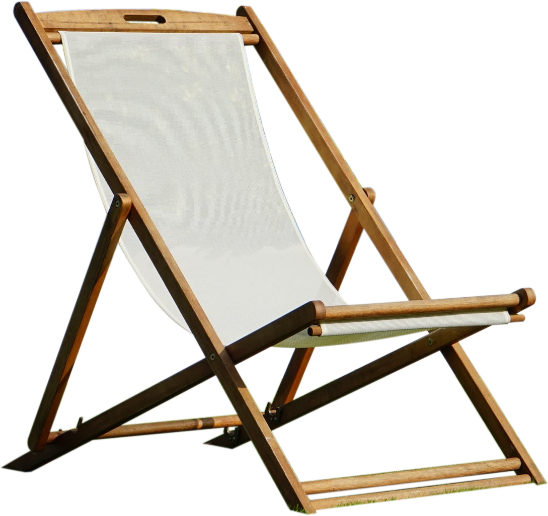
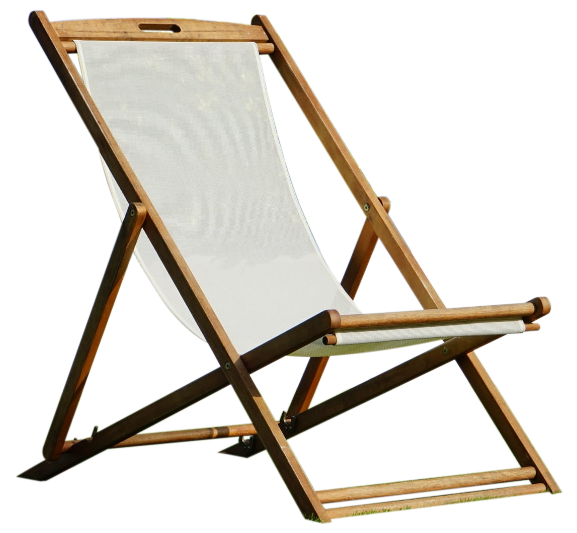
slider 2 düzenleme 2

Changed region(s): [[0.0, 0.0, 1.0, 1.0], [0.5274, 0.4031, 0.5584, 0.4651]]

diff --git a/slider-2.html b/slider-2.html
@@ -222,10 +222,10 @@
             <div class="item item-1">
                 <div class="container">
                     <div class="row align-items-center">
-                        <div class="col-8 m-auto col-sm-6">
+                        <div class="col-8 col-sm-12 m-lg-auto col-md-6 col-lg-6">
                             <img data-animation="slideInLeft" data-delay="0" class="item-img" src="assets/img/slider-2-1.png" alt="">
                         </div>
-                        <div class="col-sm-6">
+                        <div class="col-sm-12 col-md-4 col-lg-6">
                             <h3 data-animation="fadeInRightBig" data-delay="0.1s" class="item-text-1">$100.00</h3>
                             <h3 data-animation="fadeInRightBig" data-delay=".2s" class="item-text-2 text-green">People Happy</h3>
                             <p data-animation="fadeInRightBig" data-delay=".3s" class="item-text-3">
@@ -241,10 +241,10 @@
             <div class="item item-1">
                 <div class="container">
                     <div class="row align-items-center">
-                        <div class="col-8 m-auto col-sm-6">
-                            <img data-animation="slideInLeft" data-delay="0" class="item-img" src="assets/img/slider-2-1.png" alt="">
+                        <div class="col-8 col-sm-12 m-lg-auto col-md-6 col-lg-6">
+                            <img data-animation="slideInLeft" data-delay="0" class="item-img" src="assets/img/slider-2-2.png" alt="">
                         </div>
-                        <div class="col-sm-6">
+                        <div class="col-sm-12 col-md-4 col-lg-6">
                             <h3 data-animation="fadeInRightBig" data-delay="0.1s" class="item-text-1">$100.00</h3>
                             <h3 data-animation="fadeInRightBig" data-delay=".2s" class="item-text-2 text-green">People Happy</h3>
                             <p data-animation="fadeInRightBig" data-delay=".3s" class="item-text-3">
@@ -260,10 +260,10 @@
             <div class="item item-1">
                 <div class="container">
                     <div class="row align-items-center">
-                        <div class="col-8 m-auto col-sm-6">
-                            <img data-animation="slideInLeft" data-delay="0" class="item-img" src="assets/img/slider-2-1.png" alt="">
+                        <div class="col-8 col-sm-12 m-lg-auto col-md-6 col-lg-6">
+                            <img data-animation="slideInLeft" data-delay="0" class="item-img" src="assets/img/slider-2-3.png" alt="">
                         </div>
-                        <div class="col-sm-6">
+                        <div class="col-sm-12 col-md-4 col-lg-6">
                             <h3 data-animation="fadeInRightBig" data-delay="0.1s" class="item-text-1">$100.00</h3>
                             <h3 data-animation="fadeInRightBig" data-delay=".2s" class="item-text-2 text-green">People Happy</h3>
                             <p data-animation="fadeInRightBig" data-delay=".3s" class="item-text-3">
@@ -283,8 +283,6 @@
                 slider.slick({
                     autoplay: true,
                     autoplaySpeed: 5000,
-                    prevArrow:'<button type="button" class="slick-prev"><i class="fas fa-arrow-left"></i></button>',
-                    nextArrow:'<button type="button" class="slick-next"><i class="fas fa-arrow-right"></i></button>',
                     dots: true,
                     fade: true
                 });

diff --git a/assets/css/3-base/_base.scss b/assets/css/3-base/_base.scss
@@ -940,6 +940,16 @@ section#slider-2{
   display: flex;
   align-items: center;
   margin-bottom: 85px;
+  @include md{
+    min-height: 300px;
+    max-height: 300px;
+    margin-top: 56px;
+  }
+  @include sm{
+    min-height: unset;
+    max-height: unset;
+    margin-top: 56px;
+  }
   &:before{
     content: '';
     position: absolute;
@@ -952,12 +962,72 @@ section#slider-2{
     background-repeat: no-repeat;
   }
   .slick-list{
-    margin-bottom: -100px;
+    @include lg{
+      margin-bottom: -100px;
+    }
   }
   .slider-wrap{
+    @include md{
+      margin-bottom: 0;
+    }
+    @include sm{
+      margin-bottom: 0;
+    }
+    .slick-dots{
+      bottom: -45px;
+      width: 95%;
+      right: 0;
+      @include md{
+        bottom: -32px;
+        width: 100%;
+        left: 0;
+        background: rgba($primary,.3);
+        padding-bottom: 10px;
+      }
+      li{
+        &.slick-active{
+          button{
+            &:before{
+              color: $primary;
+            }
+          }
+        }
+      }
+    }
     .item{
       .item-img{
         width: 100%;
+        @include md{
+          position: relative;
+          top: 15px;
+        }
+        @include sm{
+          max-width: 330px;
+          margin: auto;
+        }
+      }
+      .item-text-1{
+        color: $primary;
+        @include sm{
+          text-align: center;
+        }
+      }
+      .item-text-2{
+        color: $secondary;
+        font-weight: 600;
+        @include sm{
+          text-align: center;
+        }
+      }
+      .item-text-3{
+        color: $gray-600;
+        @include md{
+          font-size: 13px;
+        }
+      }
+      .item-btn{
+        padding: 10px;
+        font-size:13px
       }
     }
     .slick-arrow{
@@ -965,6 +1035,20 @@ section#slider-2{
       z-index: 3;
       width: 40px;
       height: 40px;
+      &.slick-prev{
+        left: 40px;
+
+        &:before{
+          content: '\e848';
+        }
+      }
+      &.slick-next{
+        right: 40px;
+
+        &:before{
+          content: '\e84b';
+        }
+      }
       &:before{
         display: block;
         font-family: unicons;
@@ -972,20 +1056,6 @@ section#slider-2{
       }
       &:hover{
         background: $secondary;
-      }
-
-      &.slick-prev{
-        &:before{
-          content: '\e848';
-          left: 0;
-        }
-      }
-      &.slick-next{
-        &:before{
-          content: '\e84b';
-          right: -100px;
-          left: unset;
-        }
       }
     }
   }
